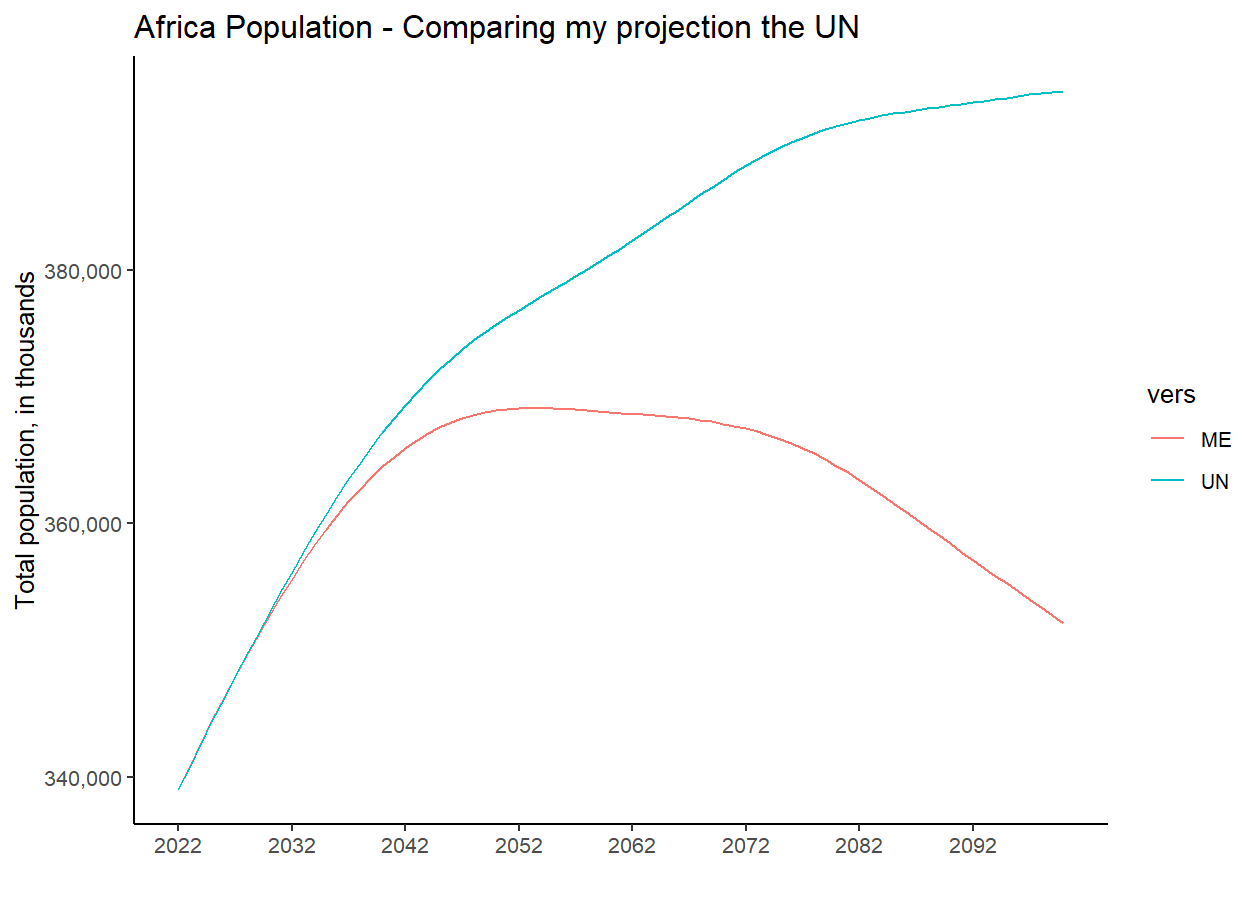
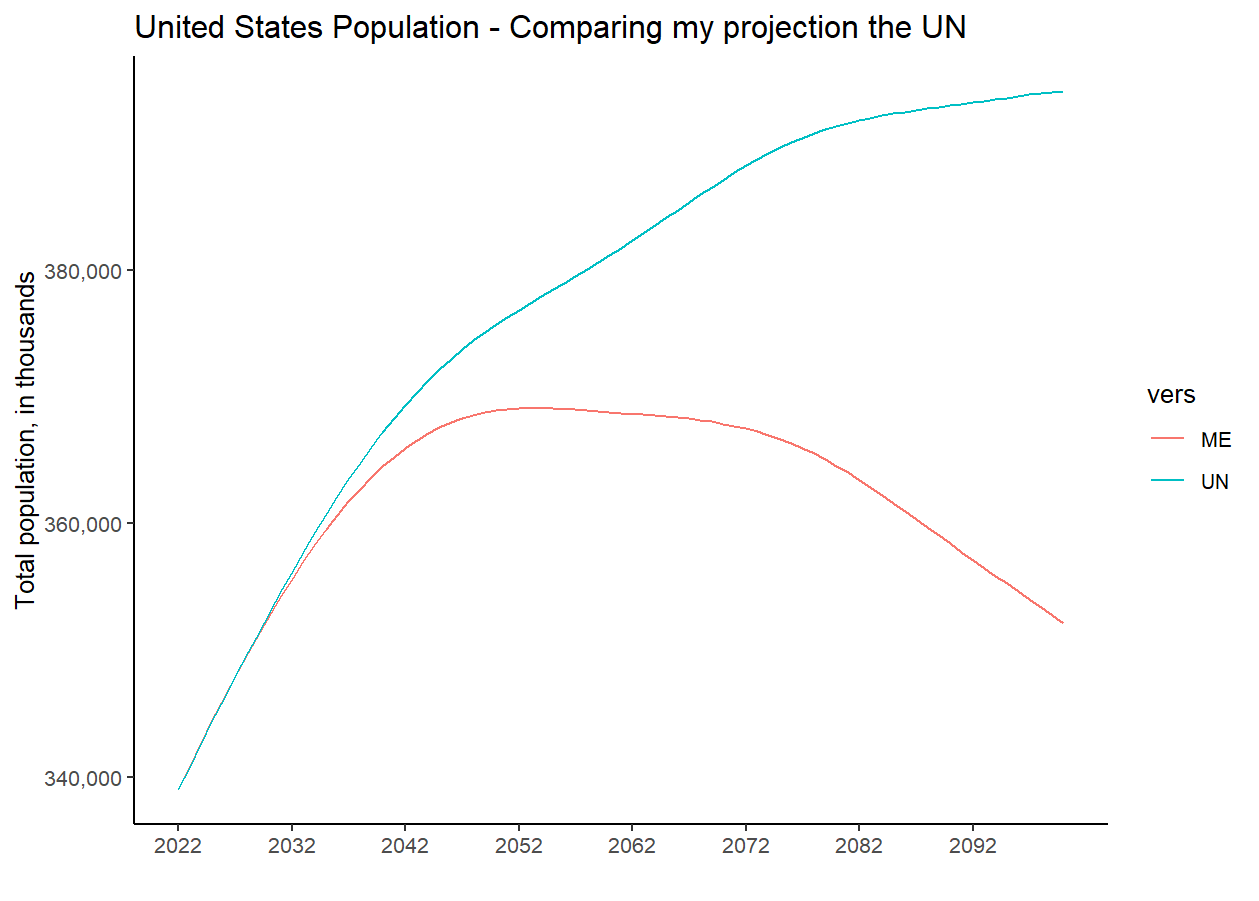
fixing united states label

Changed region(s): [[0.0929, 0.0, 0.7744, 0.0622]]

diff --git a/markdown/prediction_africa_population_december2022.md b/markdown/prediction_africa_population_december2022.md
@@ -6,7 +6,19 @@
 
 <iframe src="https://www.metaculus.com/questions/embed/13701/" width="550" height="260"></iframe>
 
-## Linear Trend
+## Methods
+
+This was an easy one. As the question states, the United Nations projects the African population to be about 1.7 billion. I skimmed their population projection [methodology](https://population.un.org/wpp/Publications/Files/WPP2022_Methodology.pdf). It's very impressive. Those guys know a lot about projecting population.
+
+The U.N. modeling team put all [their data](https://github.com/PPgp/wpp2022) on Github. The data includes fertility and mortality rates by country, year, and single year of age. These data are provided historically (from 1950 to 2021) and projected forward (from 2022 to 2100). The files also include rates of net migration by country and year, and some other stuff too (e.g. sex ratios for newborns). Basically, everything you need to simulate population. So I used their fertility/mortality/migration rates to build a [little simulation model](https://github.com/CatGilbertJr/CatGilbertJr.github.io/blob/main/code/africa_population_simulation/un_pop_projection_analysis_2022_12_26.R). 
+
+![](https://github.com/CatGilbertJr/CatGilbertJr.github.io/blob/main/figures/prediction_africa_population_december2022_compare_to_un.png?raw=true)
+
+Not sure why I'm not matching exactly. Also, not sure why my mini United States model performs so much worse in the long-term (see below). It suggests that either (1) something in my code is screwy or (2) they are doing something else beyond applying their projected fertility/mortality/migration projections. Either way, it seems to work good enough by 2030.
+
+![](https://github.com/CatGilbertJr/CatGilbertJr.github.io/blob/main/figures/prediction_africa_population_december2022_compare_to_un_usa.png?raw=true) 
+
+  
 
 ## Prediction
 
